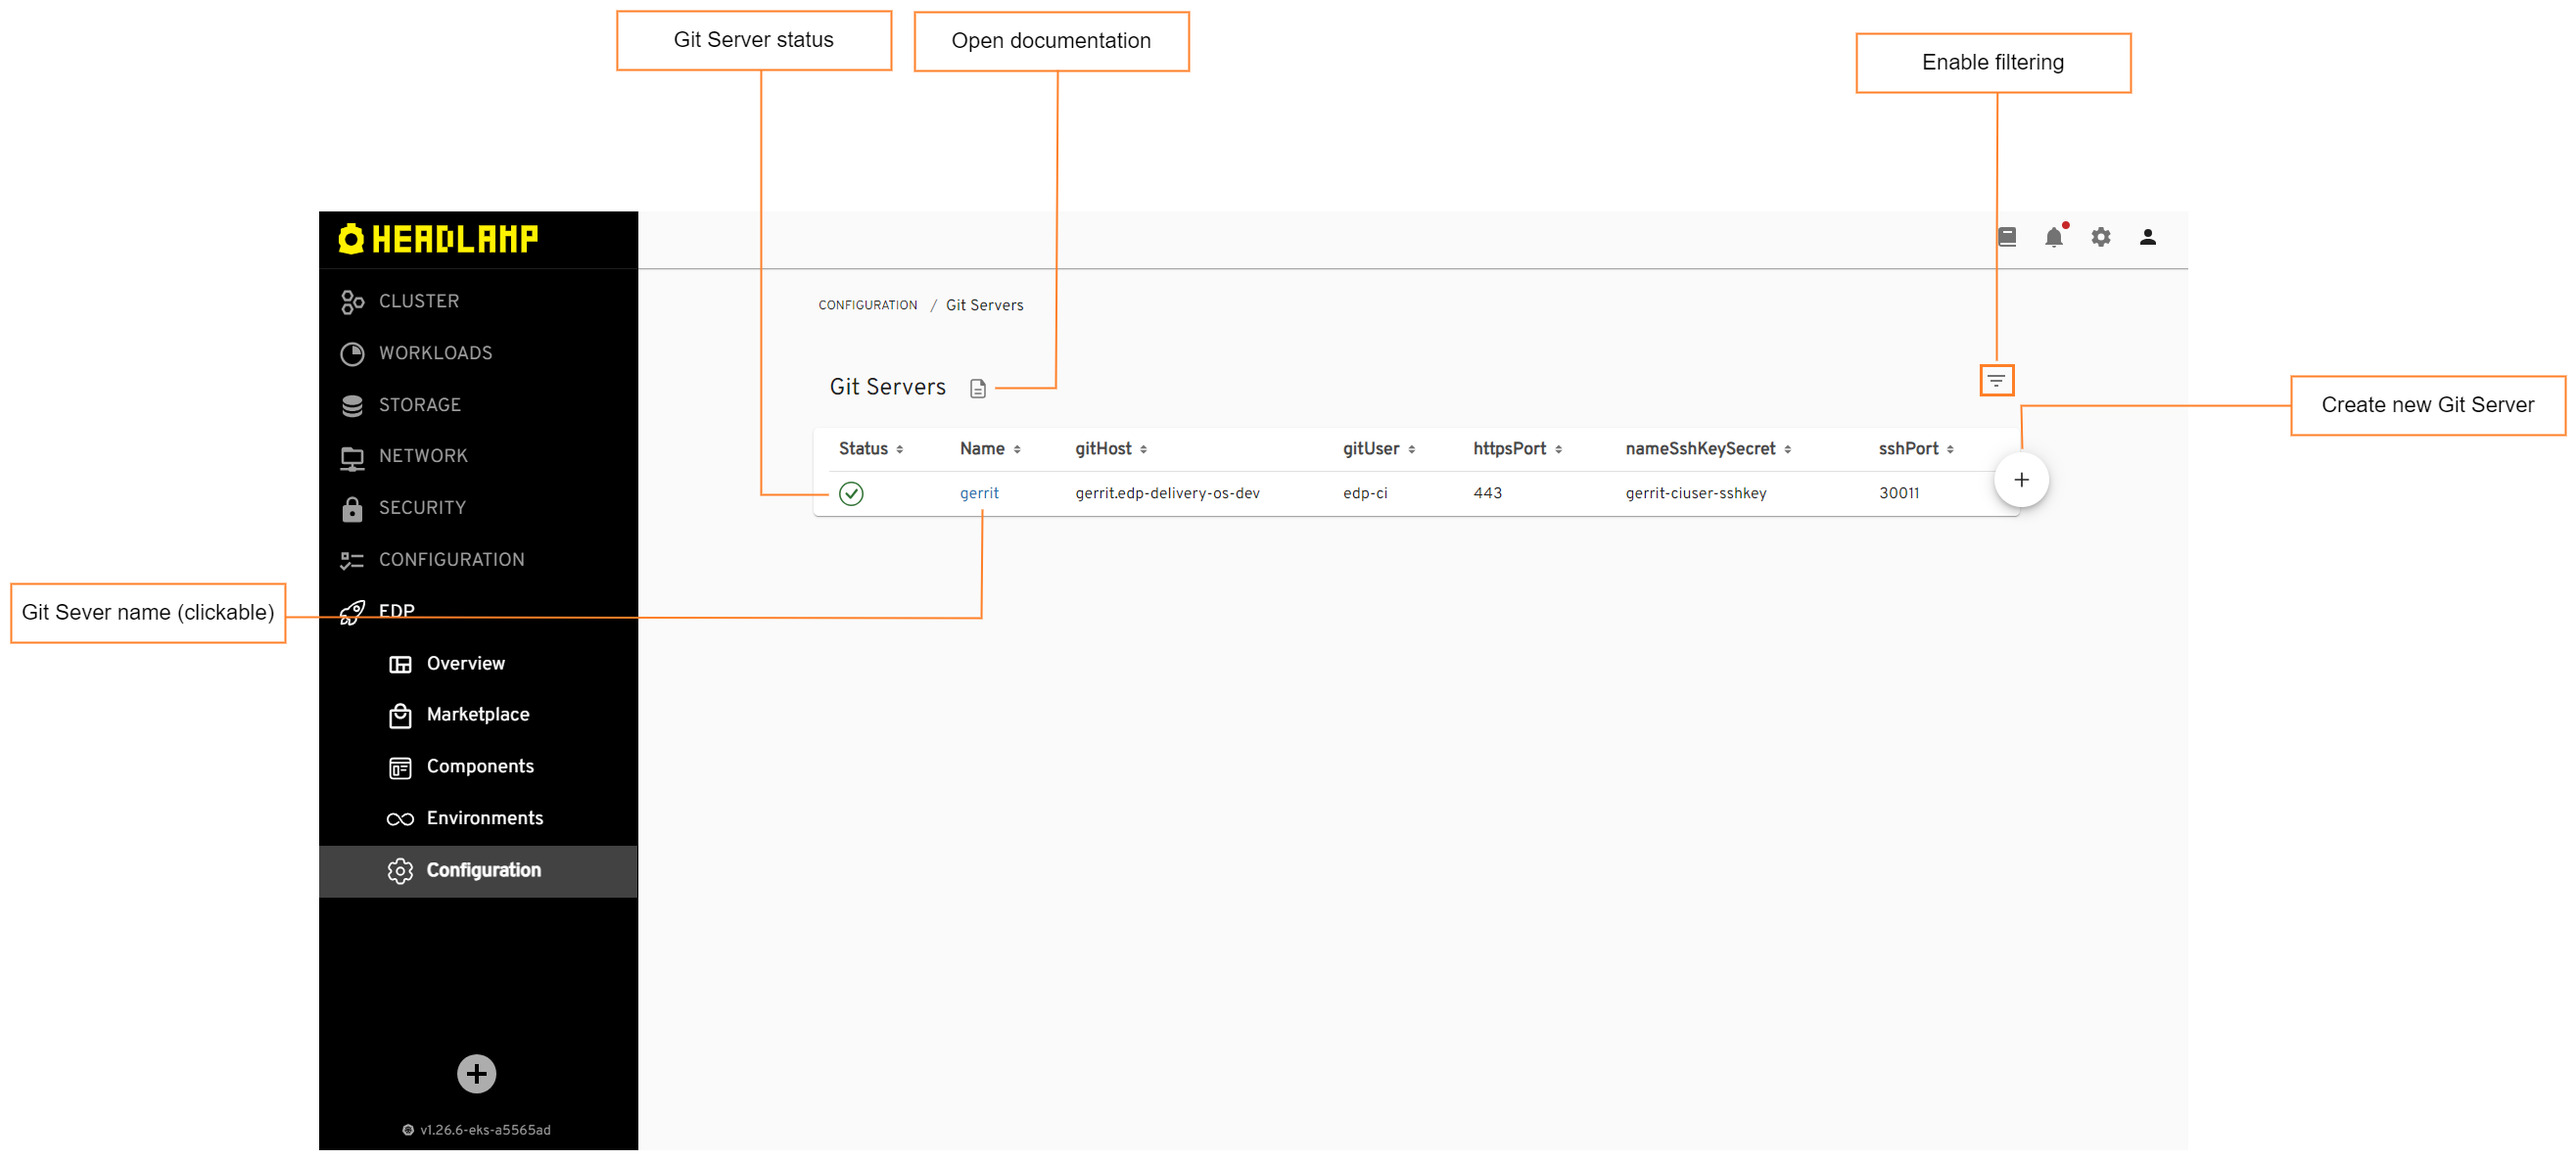
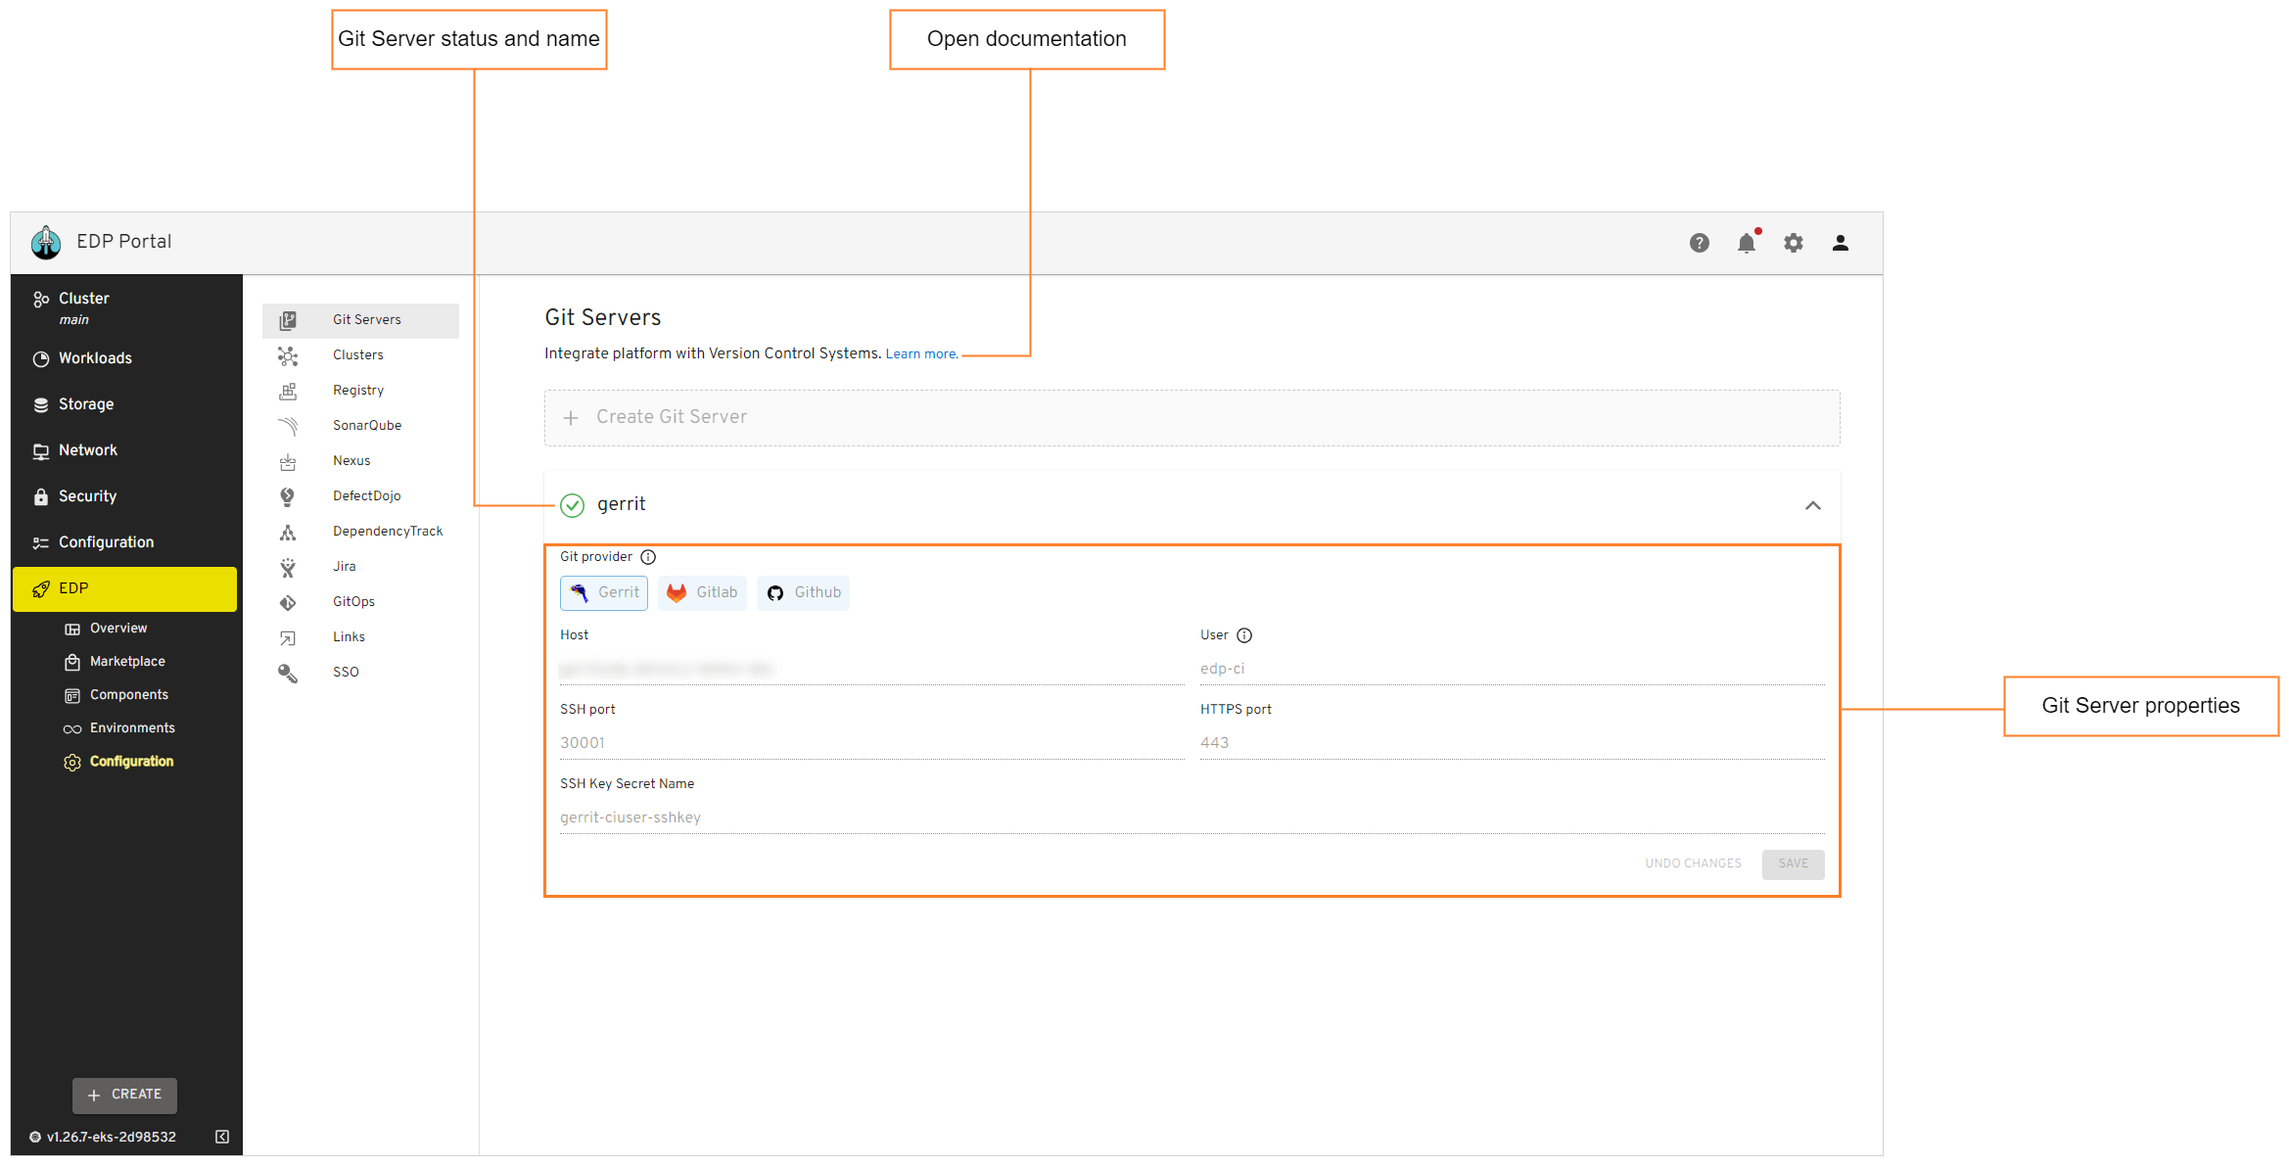
docs: Add a link to a video of the EDP GitHub integration (#96)

diff --git a/docs/user-guide/git-server-overview.md b/docs/user-guide/git-server-overview.md
@@ -1,25 +1,20 @@
 # Manage Git Servers
 
-Git Server is a custom resource that is required for using the import strategy when creating a new component, whether it is an application, library, autotest or infrastructure.
+Git Server is responsible for integration with Version Control System, whether it is GitHub, Gitlab or Gerrit.
 
-Under the hood, Git server in EDP Portal is a Kubernetes secret that stores credentials to the remote Git server.
+![type:video](https://www.youtube.com/embed/pzheGwBLZvU)
 
-The added application will be listed in the Applications list allowing you to do the following:
+The Git Server is set via the **global.gitProvider** parameter of the [values.yaml](https://github.com/epam/edp-install/blob/release/3.5/deploy-templates/values.yaml#L14) file.
+
+To view the current Git Server, you can open `EDP` -> `Configuration` -> `Git Servers` and inspect the following properties:
 
 !![Git Server menu](../assets/user-guide/edp-portal-git-server-overview.png "Git Server menu")
 
-* **Git Server status** - displays the Git Server status. Can be red or green depending on if the EDP Portal managed to connect to the Git Server with the specified credentials or not.
+* **Git Server status and name** - displays the Git Server status, which depends on the Git Server integration status (Success/Failed).
 
-* **Git Server name** - displays the Git Server name set during the Git Server creation.
+* **Git Server properties** - displays the Git Server type, its host address, username, SSH/HTTPS port, and name of the secret that contains SSH key.
 
-* **Open documentation** - opens the documentation that leads to this page.
-
-* **Enable filtering** - enables filtering by Git Server name and namespace where this custom resource is located in.
-
-* **Create new Git Server** - displays the **Create Git Server** menu.
-
-!!! note
-    Git Server can't be deleted via the EDP Portal UI. Use the `kubectl delete GitServer <Git_server_name> -n edp` command to delete the GitServer custom resource.
+* **Open documentation** - opens the "Manage Git Servers" documentation page.
 
 ## View Authentication Data
 
@@ -40,3 +35,4 @@ To remove a Git Server from the Git Servers list, utilize the `kubectl delete` c
 # Related Articles
 
 * [Add Git Server](../user-guide/add-git-server.md)
+* [Integrate GitHub/GitLab in Tekton](../operator-guide/import-strategy-tekton.md)

diff --git a/docs/operator-guide/import-strategy-tekton.md b/docs/operator-guide/import-strategy-tekton.md
@@ -1,10 +1,12 @@
 # Integrate GitHub/GitLab in Tekton
 
-This page describes how to integrate EDP with GitLab or GitHub in case of following the Tekton deploy scenario.
+This page describes how to integrate EDP with GitLab or GitHub Version Control System.
+
+![type:video](https://www.youtube.com/embed/pzheGwBLZvU)
 
 ## Integration Procedure
 
-To start from, it is required to add both Secret with SSH key and GitServer custom resources
+To start from, it is required to add both Secret with SSH key, API token, and [GitServer](../user-guide/add-git-server.md) resources
 by taking the steps below.
 
 1. Generate an SSH key pair and add a public key to [GitLab](https://docs.gitlab.com/ee/ssh/)
@@ -55,7 +57,7 @@ by taking the steps below.
       !!! note
           Make sure to save the access token as there will not be any ability to access it once again.
 
-      In case you want to create a project access token instead of a personal one, the GitLab Jenkins plugin will be able to accept payloads from webhooks for the project only:
+      In case you want to create a project access token instead of a personal one, take the following steps:
 
       * Log in to GitLab and navigate to the project.
       * On the **User Settings** menu, select *Access Tokens*.
@@ -67,7 +69,7 @@ by taking the steps below.
 
       * Click the **Create project access token** button.
 
-3. Create a secret in the `edp-project` namespace for the Git account with the **id_rsa**, **username**, and **token** fields. Take the following template as an example (use ci-github instead of ci-gitlab for GitHub):
+3. Create a secret in the `edp` namespace for the Git account with the **id_rsa**, **username**, and **token** fields. Take the following template as an example (use ci-github instead of ci-gitlab for GitHub):
 
     ```yaml
     kubectl create secret generic ci-gitlab -n edp \
